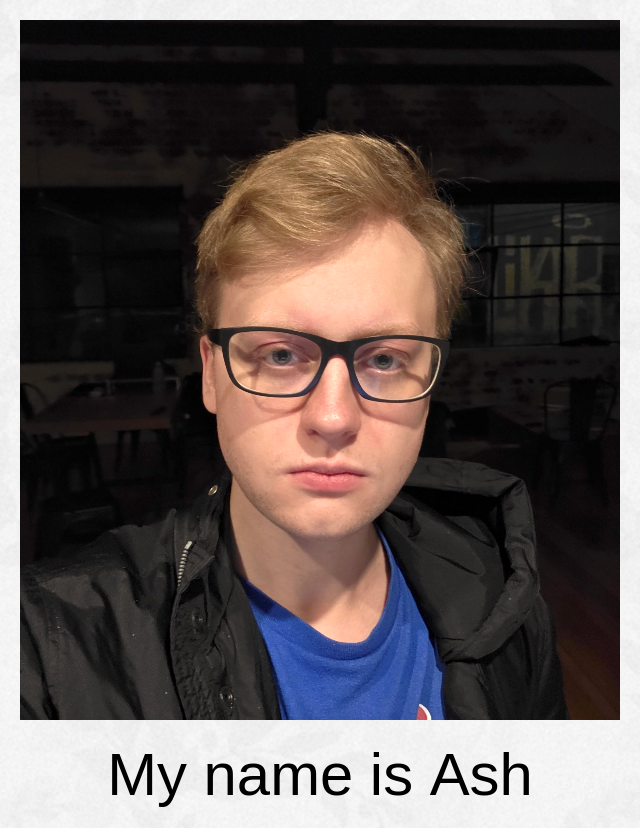
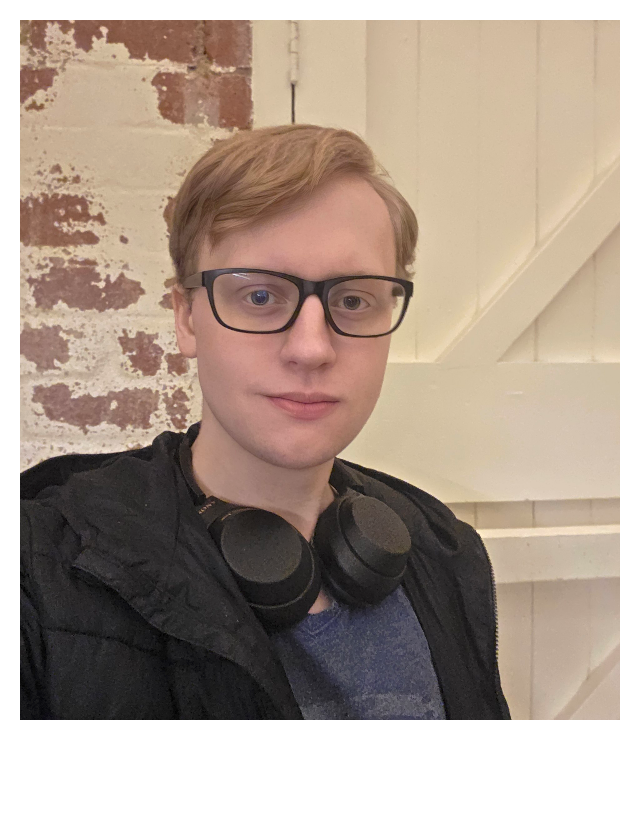
style update

diff --git a/public/portfolio.html b/public/portfolio.html
@@ -108,7 +108,7 @@
           <br>
         <h1> My roles </h1>
         <h2> Transparency Analytics PTY LTD</h2>
-        <h4> Full-Stack Developer | Febuary 2026 - June 2026 </h4>
+        <h4> Full-Stack Developer | March 2026 - June 2026 </h4>
         <p> At Transparency Analytics, I served as a full-stack developer on a SaaS product. Day to day, this means developing both the front-end and back-end from UI design and implementation to the server architecture and API development. <br>
            <br>My role centred   on utilizing PostgreSQL, Node.js, React, TypeScript, JavaScript for a significant body of front and back end web and tool development. <br><br> Working within a small team in a contract capacity has meant broad ownership across the product lifecycle, from feature development through to production. <br> </p>
         </div>

diff --git a/public/index.html b/public/index.html
@@ -25,7 +25,7 @@
       <div id="skyText">
         <p style="font-style:italic; font-weight:200; line-height:3dvw;"> welcome to </p>
         <h1 style="font-weight:bold;">Lupercalia.software</h1>
-        <p style="font-weight:350; ">Developing software. Avoiding wolves. <br> <br>  <br> <br> <br> </p>
+        <p style="font-weight:350; ">Wild by design. <br> <br>  <br> <br> <br> </p>
         <p style="font-weight:300;"> come find me on :
         <div id="LinkIcons">
           <a id="github" href="https://www.linkedin.com/in/ash-fantauzzo/" target="_blank" rel="noopener noreferrer">
